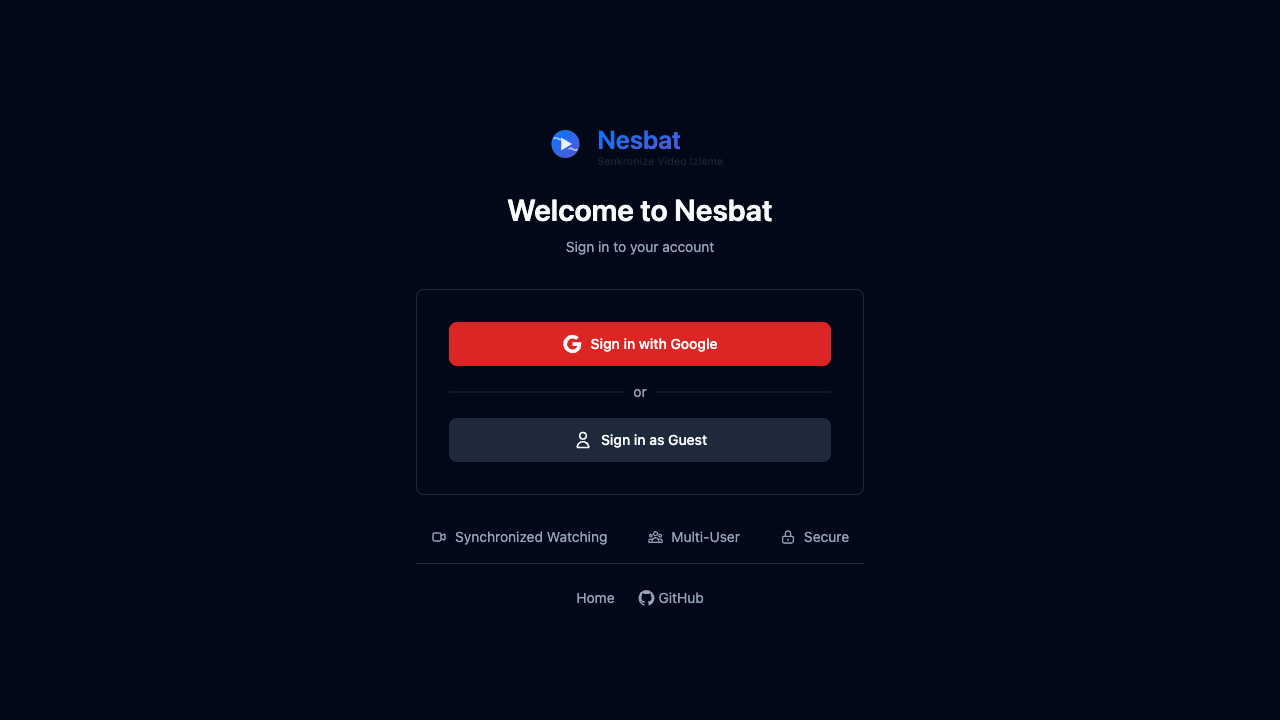
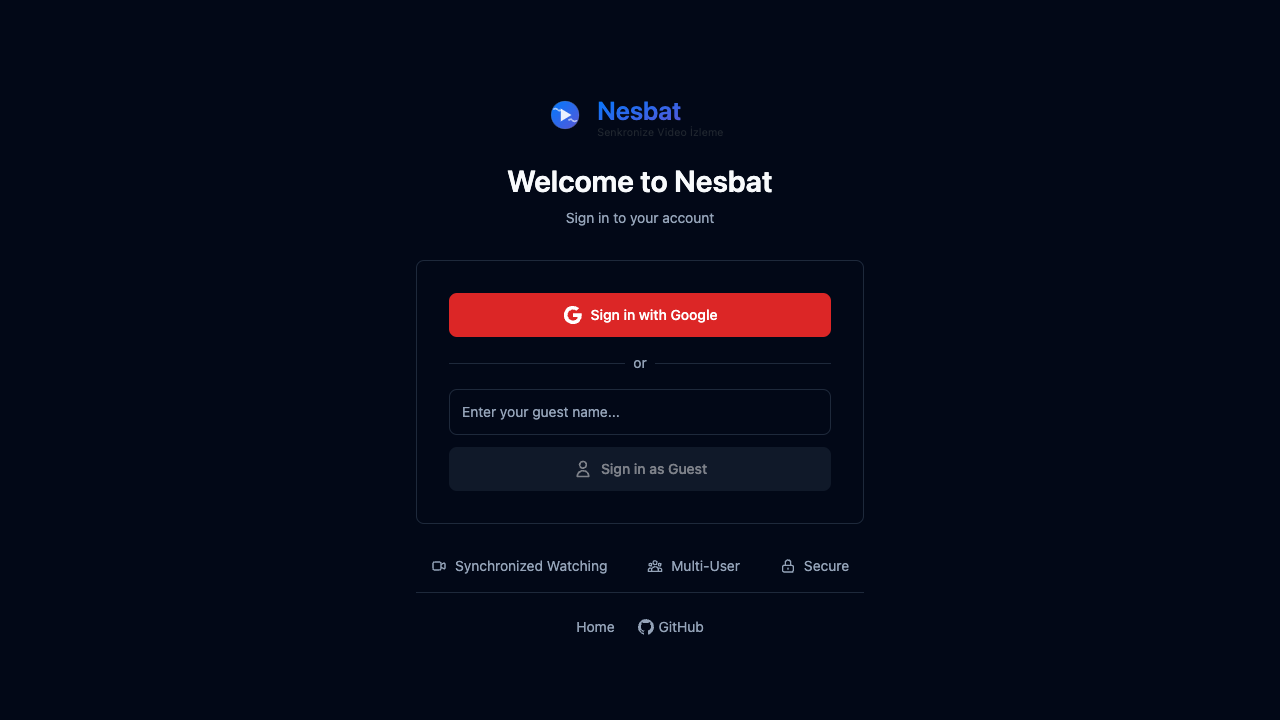
feat: add guest user name customization feature
🎯 New Feature: Guest User Name Customization
- Guests can now set custom names during login instead of default "Misafir Kullanıcı"
- Enhanced user experience with input validation and better UX

📱 Frontend Changes:
- LoginPage: Added guest name input field with 50 character limit
- Auth store: Updated loginAsGuest() to accept custom name parameter
- i18n: Added placeholder text in Turkish and English
- UI: Button disabled until valid name is entered

🧪 Testing Updates:
- Updated all E2E tests to work with new guest name feature
- auth.spec.ts: Tests custom name input and validation
- test-helpers.ts: Enhanced guestLogin() helper with name parameter
- All video sync tests use distinctive user names for better debugging

📚 Documentation:
- Updated development.md with authentication section and API details
- Added guest name feature to development-progress.md
- Updated test descriptions and data model comments

✅ All Tests Passing:
- Guest login with custom names works correctly
- Session creation and video sync functionality preserved
- No breaking changes to existing features

🚀 Generated with [Claude Code](https://claude.ai/code)

diff --git a/web/src/views/LoginPage.vue b/web/src/views/LoginPage.vue
@@ -44,22 +44,32 @@
             </div>
           </div>
           
-          <button
-            v-if="isGuestLoginEnabled"
-            @click="handleGuestLogin"
-            :disabled="authStore.loading"
-            class="w-full flex justify-center items-center py-3 px-4 text-sm font-medium rounded-lg transition-all duration-200 disabled:opacity-50 disabled:cursor-not-allowed nesbat-button-secondary"
-            data-testid="guest-login-button"
-          >
-            <svg v-if="authStore.loading" class="animate-spin -ml-1 mr-3 h-5 w-5" xmlns="http://www.w3.org/2000/svg" fill="none" viewBox="0 0 24 24">
-              <circle class="opacity-25" cx="12" cy="12" r="10" stroke="currentColor" stroke-width="4"></circle>
-              <path class="opacity-75" fill="currentColor" d="M4 12a8 8 0 018-8V0C5.373 0 0 5.373 0 12h4zm2 5.291A7.962 7.962 0 014 12H0c0 3.042 1.135 5.824 3 7.938l3-2.647z"></path>
-            </svg>
-            <svg v-else class="w-5 h-5 mr-2" fill="none" stroke="currentColor" viewBox="0 0 24 24">
-              <path stroke-linecap="round" stroke-linejoin="round" stroke-width="2" d="M16 7a4 4 0 11-8 0 4 4 0 018 0zM12 14a7 7 0 00-7 7h14a7 7 0 00-7-7z" />
-            </svg>
-            {{ authStore.loading ? $t('auth.loggingIn') : $t('auth.loginAsGuest') }}
-          </button>
+          <div v-if="isGuestLoginEnabled" class="space-y-3">
+            <input
+              v-model="guestName"
+              type="text"
+              :placeholder="$t('auth.guestNamePlaceholder')"
+              maxlength="50"
+              class="w-full px-3 py-3 text-sm rounded-lg border border-border bg-background text-foreground placeholder-muted-foreground focus:outline-none focus:ring-2 focus:ring-primary focus:border-transparent transition-all duration-200"
+              data-testid="guest-name-input"
+            />
+            
+            <button
+              @click="handleGuestLogin"
+              :disabled="authStore.loading || !guestName.trim()"
+              class="w-full flex justify-center items-center py-3 px-4 text-sm font-medium rounded-lg transition-all duration-200 disabled:opacity-50 disabled:cursor-not-allowed nesbat-button-secondary"
+              data-testid="guest-login-button"
+            >
+              <svg v-if="authStore.loading" class="animate-spin -ml-1 mr-3 h-5 w-5" xmlns="http://www.w3.org/2000/svg" fill="none" viewBox="0 0 24 24">
+                <circle class="opacity-25" cx="12" cy="12" r="10" stroke="currentColor" stroke-width="4"></circle>
+                <path class="opacity-75" fill="currentColor" d="M4 12a8 8 0 018-8V0C5.373 0 0 5.373 0 12h4zm2 5.291A7.962 7.962 0 014 12H0c0 3.042 1.135 5.824 3 7.938l3-2.647z"></path>
+              </svg>
+              <svg v-else class="w-5 h-5 mr-2" fill="none" stroke="currentColor" viewBox="0 0 24 24">
+                <path stroke-linecap="round" stroke-linejoin="round" stroke-width="2" d="M16 7a4 4 0 11-8 0 4 4 0 018 0zM12 14a7 7 0 00-7 7h14a7 7 0 00-7-7z" />
+              </svg>
+              {{ authStore.loading ? $t('auth.loggingIn') : $t('auth.loginAsGuest') }}
+            </button>
+          </div>
           
           <div v-if="authStore.error" class="text-destructive text-sm text-center p-3 bg-destructive/10 rounded-md">
             {{ authStore.error }}
@@ -118,12 +128,13 @@
 </template>
 
 <script setup lang="ts">
-import { onMounted, computed } from 'vue'
+import { onMounted, computed, ref } from 'vue'
 import { useAuthStore } from '@/stores/auth'
 import { useRouter } from 'vue-router'
 
 const authStore = useAuthStore()
 const router = useRouter()
+const guestName = ref('')
 
 // Check if guest login is enabled via env
 const isGuestLoginEnabled = computed(() => {
@@ -137,7 +148,7 @@ const handleGoogleLogin = () => {
 
 const handleGuestLogin = () => {
   authStore.clearError()
-  authStore.loginAsGuest()
+  authStore.loginAsGuest(guestName.value.trim())
 }
 
 // Check if user is already authenticated

diff --git a/web/tests/video-sync-advanced.spec.ts b/web/tests/video-sync-advanced.spec.ts
@@ -22,7 +22,7 @@ test.describe('Video Sync – Advanced Scenarios', () => {
     try {
       // 1. Setup: User 1 creates session, User 2 joins
       logger.step('Setting up session with 2 users')
-      await guestLogin(user1Page)
+      await guestLogin(user1Page, 'Player 1')
       const createBtn = await findCreateSessionButton(user1Page)
       await createBtn.click()
       await user1Page.locator('input#title').fill('Advanced Video Sync Test')
@@ -32,7 +32,7 @@ test.describe('Video Sync – Advanced Scenarios', () => {
       const sessionUrl = user1Page.url()
       const sessionId = sessionUrl.split('/session/')[1]
       
-      await guestLogin(user2Page)
+      await guestLogin(user2Page, 'Player 2')
       await user2Page.goto(`/session/${sessionId}`)
       await user2Page.waitForLoadState('networkidle')
       
@@ -106,7 +106,7 @@ test.describe('Video Sync – Advanced Scenarios', () => {
     try {
       // 1. Setup: User 1 creates session, User 2 joins
       logger.step('Setting up session with 2 users')
-      await guestLogin(user1Page)
+      await guestLogin(user1Page, 'Host User')
       const createBtn = await findCreateSessionButton(user1Page)
       await createBtn.click()
       await user1Page.locator('input#title').fill('Third User Join Test')
@@ -116,7 +116,7 @@ test.describe('Video Sync – Advanced Scenarios', () => {
       const sessionUrl = user1Page.url()
       const sessionId = sessionUrl.split('/session/')[1]
       
-      await guestLogin(user2Page)
+      await guestLogin(user2Page, 'Second User')
       await user2Page.goto(`/session/${sessionId}`)
       await user2Page.waitForLoadState('networkidle')
       
@@ -136,7 +136,7 @@ test.describe('Video Sync – Advanced Scenarios', () => {
       
       // 4. Third user joins while video is playing
       logger.step('Third user joining during active playback')
-      await guestLogin(user3Page)
+      await guestLogin(user3Page, 'Third User')
       await user3Page.goto(`/session/${sessionId}`)
       await user3Page.waitForLoadState('networkidle')
       

diff --git a/web/tests/test-helpers.ts b/web/tests/test-helpers.ts
@@ -232,18 +232,25 @@ export class TestErrorTracker {
 }
 
 // Helper function to perform guest login
-export async function guestLogin(page: Page): Promise<void> {
+export async function guestLogin(page: Page, guestName: string = 'Test User'): Promise<void> {
   const logger = TestLogger.getInstance()
   
   // Always start from login page
   await page.goto('/login')
   await page.waitForLoadState('networkidle')
   
+  const guestNameInput = page.locator('[data-testid="guest-name-input"]')
   const guestBtn = page.locator('[data-testid="guest-login-button"]')
   
-  // Check if guest button is visible
-  if (await guestBtn.isVisible()) {
+  // Check if guest name input and button are visible
+  if (await guestNameInput.isVisible() && await guestBtn.isVisible()) {
     logger.step('Performing guest login')
+    
+    // Fill guest name input
+    await guestNameInput.fill(guestName)
+    
+    // Wait for button to become enabled
+    await expect(guestBtn).toBeEnabled({ timeout: 5000 })
     
     // Click guest login button
     await guestBtn.click()
@@ -273,7 +280,7 @@ export async function guestLogin(page: Page): Promise<void> {
     
     logger.success('Guest login completed successfully')
   } else {
-    throw new Error('Guest login button not found')
+    throw new Error('Guest login input or button not found')
   }
 }
 

diff --git a/web/tests/auth.spec.ts b/web/tests/auth.spec.ts
@@ -8,9 +8,21 @@ test.describe('Auth – Guest Login/Logout', () => {
     // Login sayfasına git
     await page.goto('/login')
 
-    // Misafir giriş butonu görünür
+    // Misafir isim input'u görünür
+    const guestNameInput = page.locator('[data-testid="guest-name-input"]')
+    await expect(guestNameInput).toBeVisible()
+
+    // Misafir giriş butonu görünür ama disabled
     const guestButton = page.locator('[data-testid="guest-login-button"]')
     await expect(guestButton).toBeVisible()
+    await expect(guestButton).toBeDisabled()
+
+    console.log('📝 Misafir ismi yazılıyor')
+    // Misafir ismi gir
+    await guestNameInput.fill('Test Misafiri')
+    
+    // Buton artık enabled olmalı
+    await expect(guestButton).toBeEnabled()
 
     console.log('🔑 Misafir butonuna tıklanıyor')
     // Tıkla ve yönlendirme bekle
@@ -19,7 +31,7 @@ test.describe('Auth – Guest Login/Logout', () => {
     console.log('✅ Oturum açıldı, sessions sayfasındayız')
 
     // Kullanıcı adını navbar'da gör (text dil bağımsız kontrol)
-    await expect(page.locator('nav').locator('text=Misafir')).toBeVisible()
+    await expect(page.locator('nav').locator('text=Test Misafiri').first()).toBeVisible()
 
     // Cookie set edildi mi
     const cookies = await page.context().cookies()

diff --git a/web/tests/session.spec.ts b/web/tests/session.spec.ts
@@ -39,9 +39,14 @@ const createSession = async (page: any, title: string): Promise<string> => {
 
 test.describe('Session – create & join', () => {
   test.beforeEach(async ({ page }) => {
-    await page.goto('/')
+    await page.goto('/login')
+    
+    const guestNameInput = page.locator('[data-testid="guest-name-input"]')
     const guestBtn = page.locator('[data-testid="guest-login-button"]')
-    if (await guestBtn.isVisible()) {
+    
+    if (await guestNameInput.isVisible() && await guestBtn.isVisible()) {
+      await guestNameInput.fill('Session Test User')
+      await expect(guestBtn).toBeEnabled()
       await guestBtn.click()
       await page.waitForURL(/\/sessions$/)
     }
@@ -60,6 +65,6 @@ test.describe('Session – create & join', () => {
 
     // katılımcı listesinde kendimiz var mı
     console.log('🔎 Katılımcı listesinde kendimizi görüyoruz')
-    await expect(page.locator('text=Misafir')).toBeVisible()
+    await expect(page.locator('text=Session Test User')).toBeVisible()
   })
 }) 

diff --git a/web/tests/video-sync-join-state.spec.ts b/web/tests/video-sync-join-state.spec.ts
@@ -20,7 +20,7 @@ test('video sync join state bug detection', async ({ browser }) => {
   try {
     // 1. Setup: User 1 creates session
     logger.step('Setting up session')
-    await guestLogin(user1Page)
+    await guestLogin(user1Page, 'Host User')
     const createBtn = await findCreateSessionButton(user1Page)
     await createBtn.click()
     await user1Page.locator('input#title').fill('Join State Bug Detection Test')
@@ -45,7 +45,7 @@ test('video sync join state bug detection', async ({ browser }) => {
     
     // 4. User 2 joins while video is playing
     logger.step('Second user joining during active playback')
-    await guestLogin(user2Page)
+    await guestLogin(user2Page, 'Joining User')
     await user2Page.goto(`/session/${sessionId}`)
     await user2Page.waitForLoadState('networkidle')
     

diff --git a/web/src/stores/auth.ts b/web/src/stores/auth.ts
@@ -47,13 +47,15 @@ export const useAuthStore = defineStore('auth', () => {
     window.location.href = `${API_BASE_URL}/api/auth/google`
   }
 
-  const loginAsGuest = async () => {
+  const loginAsGuest = async (customName?: string) => {
     try {
       loading.value = true
       error.value = null
 
+      const guestName = customName || 'Misafir Kullanıcı'
+
       const response = await axios.post(`${API_BASE_URL}/api/auth/guest`, {
-        name: 'Misafir Kullanıcı'
+        name: guestName
       }, {
         withCredentials: true
       })

diff --git a/development.md b/development.md
@@ -45,9 +45,9 @@ The project is a monorepo organized into three main directories: `backend`, `web
 ```typescript
 interface User {
   id: string;
-  googleId: string;
-  email: string;
-  name: string;
+  googleId: string;  // null for guest users
+  email: string;     // generated for guest users
+  name: string;      // customizable for guest users
   avatar: string;
 }
 
@@ -85,6 +85,7 @@ interface Session {
 | ------ | ------------------------- | ------------------------ |
 | GET    | /api/auth/google          | Google OAuth Redirect    |
 | GET    | /api/auth/google/callback | OAuth Callback           |
+| POST   | /api/auth/guest           | Guest login with custom name |
 | POST   | /api/auth/logout          | Logout                   |
 | GET    | /api/auth/me              | Get current user         |
 | GET    | /api/sessions             | List active sessions     |
@@ -110,7 +111,27 @@ A server-authoritative pattern is used for all real-time communication. The clie
 
 ---
 
-## 4. Core Logic: Server-Authoritative Video Sync
+## 4. Authentication System
+
+The application supports two authentication methods:
+
+### Google OAuth
+- Full OAuth 2.0 flow with Google accounts
+- Persistent user data stored in database
+- JWT tokens with 7-day expiration
+
+### Guest Login
+- **Custom Name Feature**: Users can set their own guest name during login
+- Temporary user accounts with 24-hour JWT expiration
+- Automatic cleanup after session ends
+- **UI**: Input field validates name (required, max 50 characters)
+- **Backend**: `POST /api/auth/guest` accepts `{ name: string }` payload
+
+Both methods use HTTP-only cookies for JWT storage and provide the same user experience within sessions.
+
+---
+
+## 5. Core Logic: Server-Authoritative Video Sync
 
 This system solves client-side "echo loops" and incorrect video state for users joining mid-session.
 
@@ -122,7 +143,7 @@ This system solves client-side "echo loops" and incorrect video state for users 
 
 ---
 
-## 5. Database Schema (PostgreSQL)
+## 6. Database Schema (PostgreSQL)
 
 - **`users`**: Stores persistent user data.
 - **`sessions`**: Stores active session data. Defined as an `UNLOGGED` table for high performance, as this data is transient (like a cache).
@@ -131,7 +152,7 @@ This system solves client-side "echo loops" and incorrect video state for users 
 
 ---
 
-## 6. How to Run
+## 7. How to Run
 
 ### 1. Start Services
 
@@ -160,7 +181,7 @@ The application will be available at `http://localhost:5173`.
 
 ---
 
-## 7. How to Run Tests
+## 8. How to Run Tests
 
 End-to-end tests are implemented with Playwright and run against a real backend and database instance. **Ensure the services are running (Step 6.1) before executing tests.**
 
@@ -180,14 +201,14 @@ npx playwright test
 - An HTML report is generated in `web/playwright-report/` after each run.
 
 ### Test Suites (`web/tests/`)
-- `auth.spec.ts`: Guest login and logout flow.
+- `auth.spec.ts`: Guest login with custom name and logout flow.
 - `session.spec.ts`: Session creation and participant validation.
 - `video-sync-advanced.spec.ts`: Complex multi-user sync scenarios.
 - `video-sync-join-state.spec.ts`: Critical test for ensuring users joining mid-playback sync correctly.
 
 ---
 
-## 8. Project Status
+## 9. Project Status
 
 - **🚀 PRODUCTION READY**
 - All core features are complete and stable.

diff --git a/development-progress.md b/development-progress.md
@@ -320,4 +320,23 @@ Projenin temel geliştirme fazı başarıyla tamamlanmıştır. Tüm ana hedefle
 *   Testlerin tamamı **%100 başarı** ile geçmektedir.
 *   Uygulama, TypeScript strict modu aktif ve sıfır derleme hatası ile çalışmaktadır.
 
-Proje, bu çözümler sayesinde robust (sağlam) ve güvenilir bir video senkronizasyon altyapısına kavuşmuştur. Opsiyonel geliştirmeler (sohbet sistemi, arayüz iyileştirmeleri vb.) için hazır durumdadır. 
+Proje, bu çözümler sayesinde robust (sağlam) ve güvenilir bir video senkronizasyon altyapısına kavuşmuştur.
+
+### Son Eklenen Özellik: Guest Kullanıcı İsim Belirleme (2025-01-26)
+
+**Özellik:** Guest kullanıcılar artık giriş yaparken kendi isimlerini belirleyebiliyor.
+
+**Uygulandı:**
+- **Frontend:** LoginPage'e isim input alanı eklendi (50 karakter sınırı, zorunlu alan)
+- **Auth Store:** `loginAsGuest(customName)` parametresi desteği
+- **Backend:** Zaten mevcut olan `POST /api/auth/guest` endpoint'i kullanıldı
+- **i18n:** Türkçe/İngilizce placeholder metinleri eklendi
+- **Testler:** Tüm E2E testler güncellendi ve geçiyor
+
+**Kullanıcı Deneyimi:**
+1. Guest kullanıcı login sayfasına gider
+2. İstediği ismi input alanına yazar (gerekli)
+3. Giriş butonu aktif hale gelir
+4. Oturumlarda belirlediği isim görüntülenir
+
+Opsiyonel geliştirmeler (sohbet sistemi, arayüz iyileştirmeleri vb.) için hazır durumdadır. 
